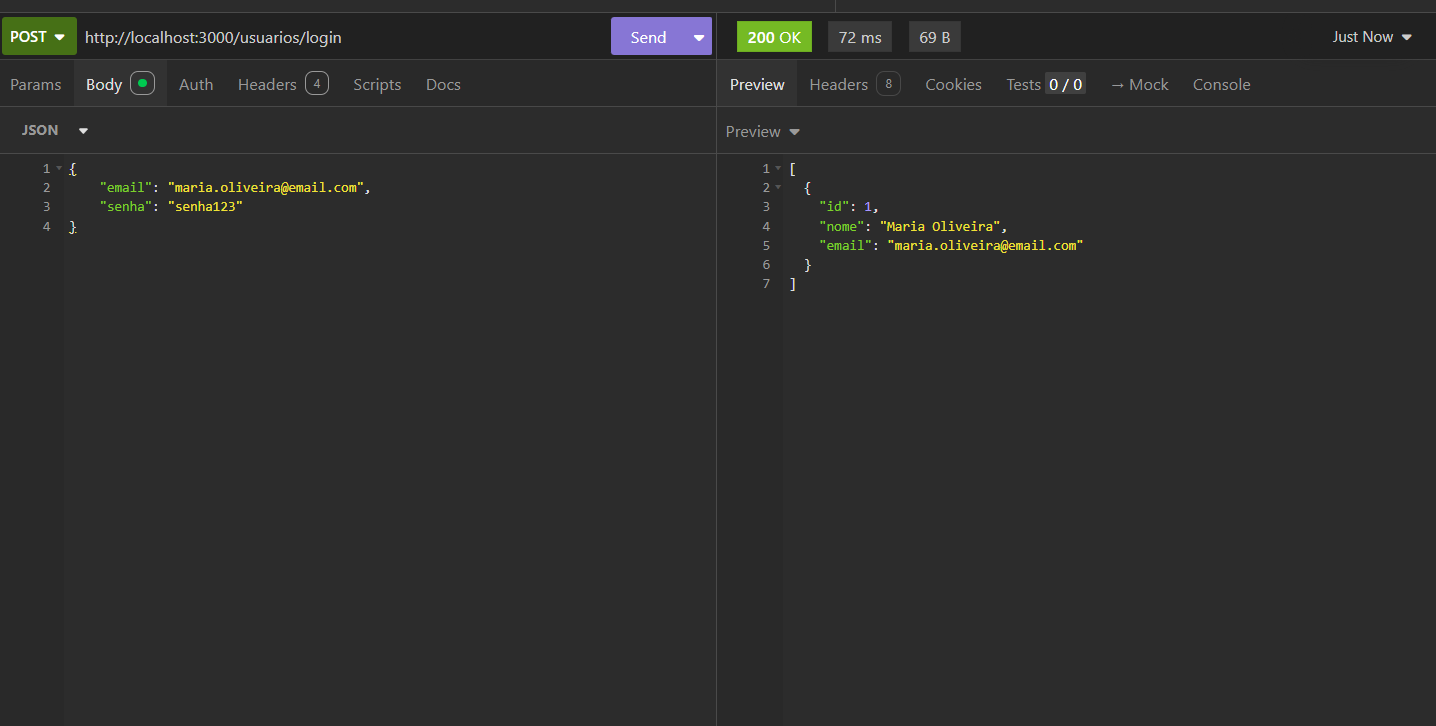
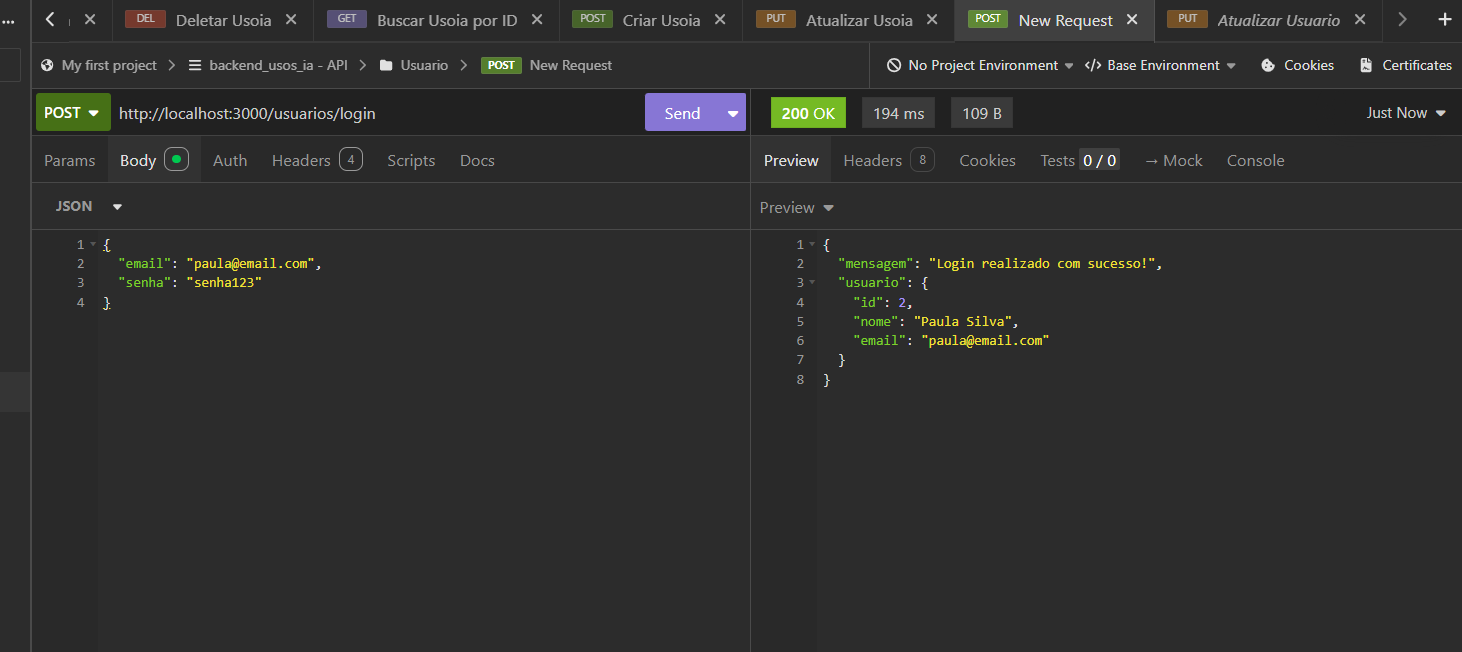
a

diff --git a/src/controllers/usuario.controller.js b/src/controllers/usuario.controller.js
@@ -41,6 +41,26 @@ class UsuarioController {
             res.json({ message: 'Removido com sucesso!' });
         });
     }
+
+    static login(req, res) {
+        const { email, senha } = req.body;
+
+        UsuarioModel.login(email, senha, (err, results) => {
+            if (err) {
+                console.error(err);
+                return res.status(500).json({ erro: 'Erro interno ao realizar login' });
+            }
+            
+            if (results.length === 0) {
+                return res.status(401).json({ mensagem: 'Acesso negado, credenciais inválidas' });
+            }
+            
+            return res.status(200).json({
+                mensagem: 'Login realizado com sucesso!',
+                usuario: results[0]
+            });
+        });
+    }
 }
 
 module.exports = UsuarioController;

diff --git a/src/models/usuario.model.js b/src/models/usuario.model.js
@@ -20,6 +20,12 @@ class UsuarioModel {
     static async delete(id, callback) {
         db.query('DELETE FROM usuario WHERE id = ?', [id], callback);
     }
+
+        // Exemplo de como ficaria no model
+    static login(email, senha, callback) {
+        const sql = 'SELECT id, nome, email FROM usuario WHERE email = ? AND senha = password(?);';
+        db.query(sql, [email, senha], callback);
+    }
 }
 
 module.exports = UsuarioModel;

diff --git a/src/routes/usuario.routes.js b/src/routes/usuario.routes.js
@@ -7,5 +7,6 @@ router.get('/usuarios/:id', UsuarioController.buscarPorId);
 router.post('/usuarios', UsuarioController.criar);
 router.put('/usuarios/:id', UsuarioController.atualizar);
 router.delete('/usuarios/:id', UsuarioController.deletar);
+router.post('/usuarios/login', UsuarioController.login);
 
 module.exports = router;
